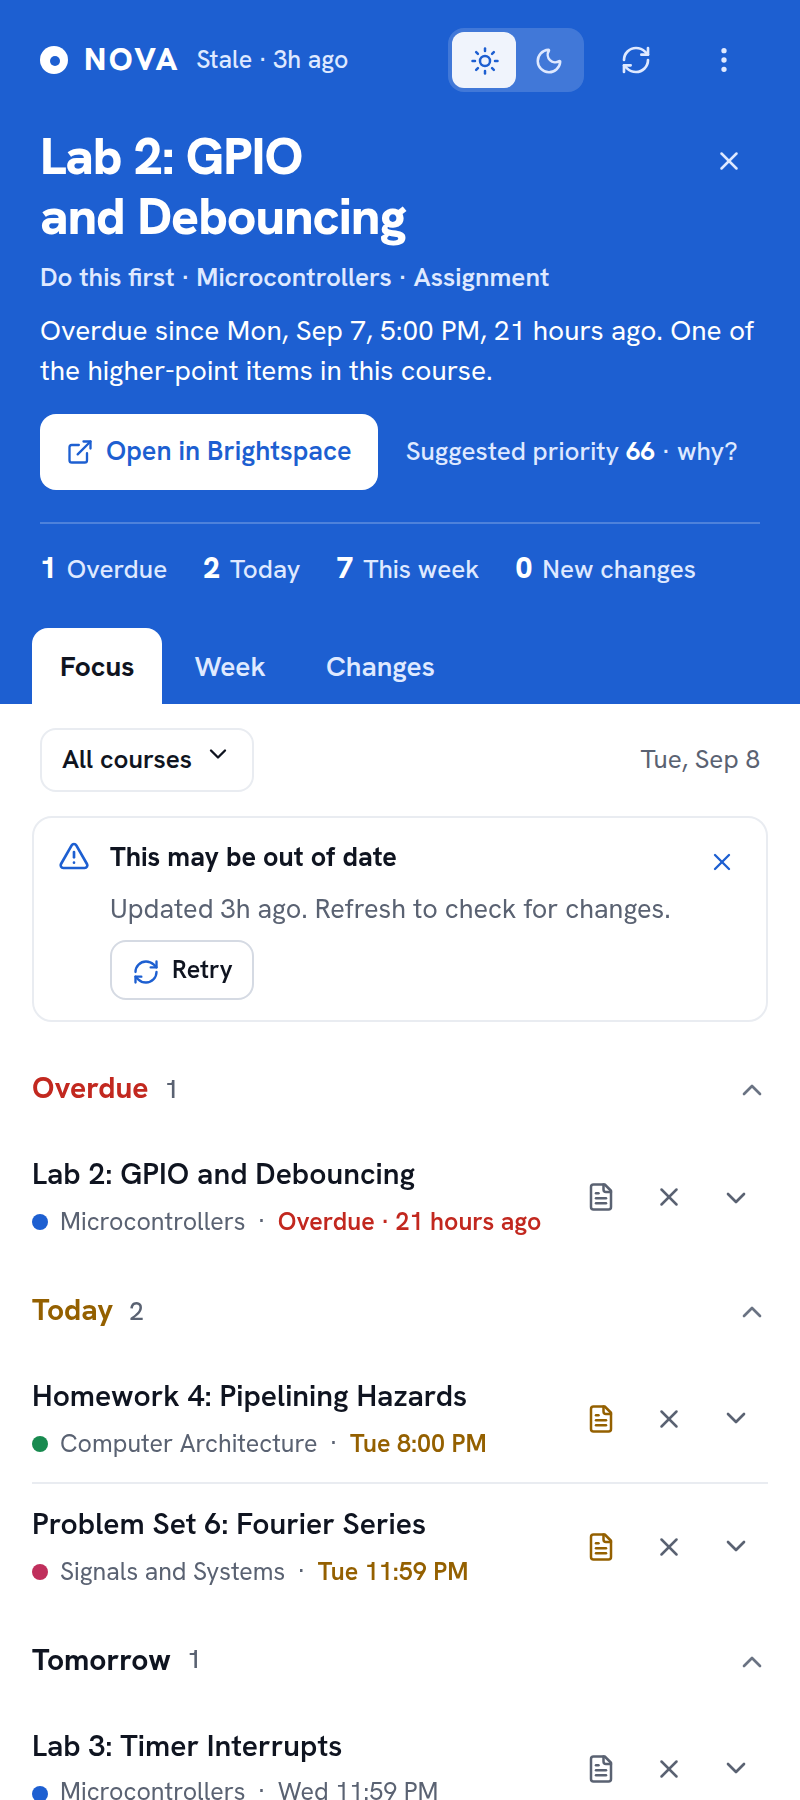
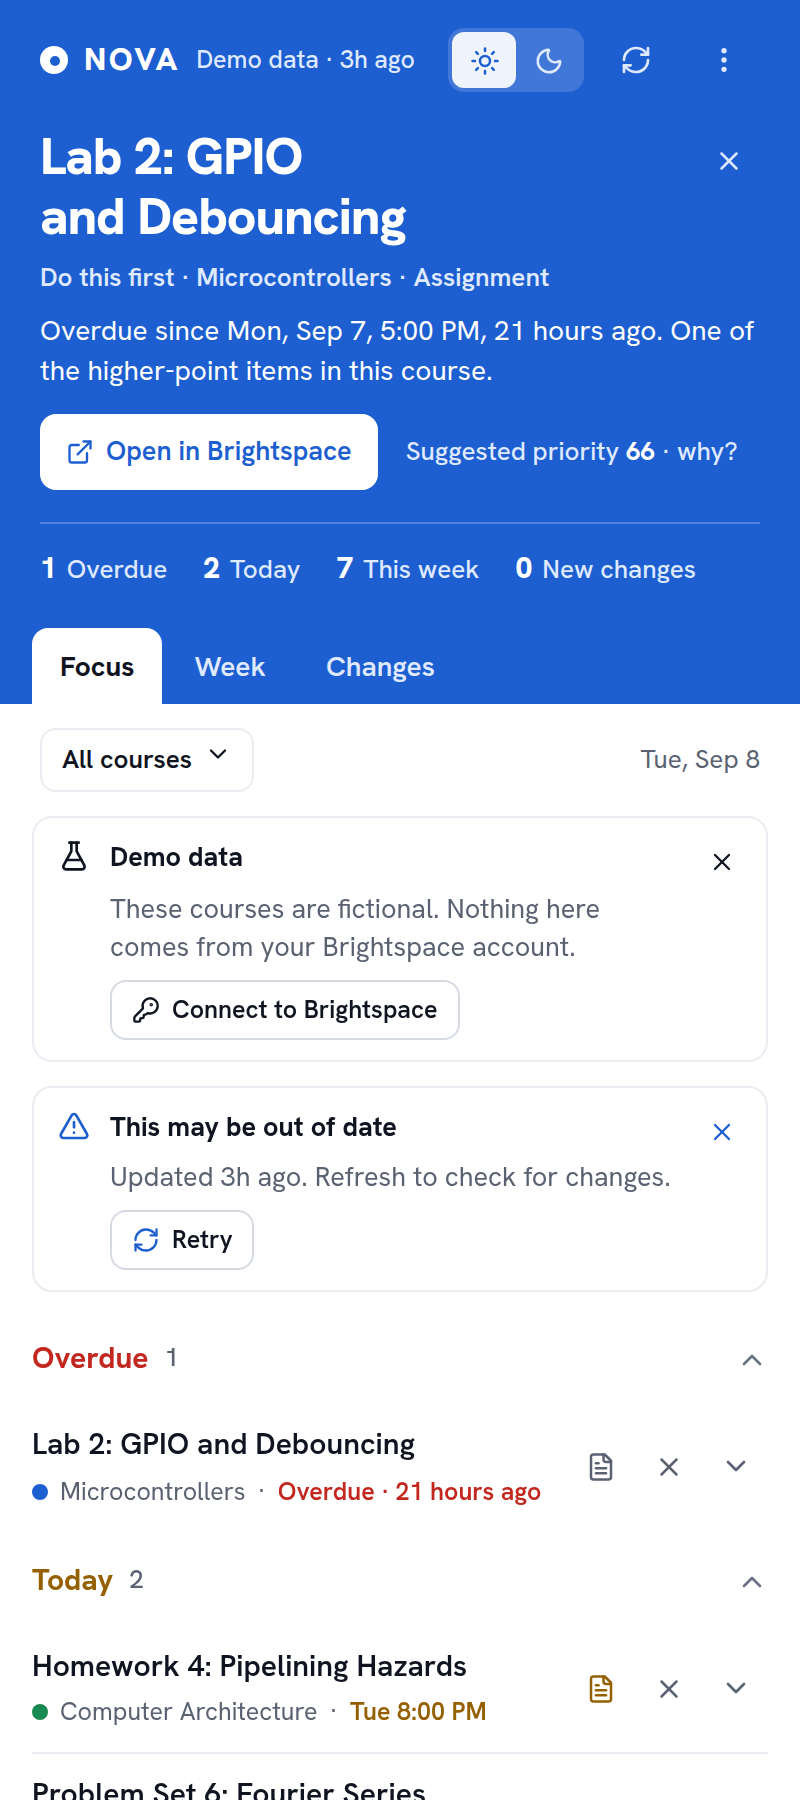
chore(extension): preview demo mode also relabels the persisted sync status; recapture screenshots
Claude-Session: https://claude.ai/code/session_01S3WW9YeRyY937cNbjwGNCi

diff --git a/apps/extension/dev/preview.tsx b/apps/extension/dev/preview.tsx
@@ -18,7 +18,7 @@ import { createStubHost } from "../src/platform/host";
 import { App } from "../src/sidepanel/App";
 import type { UiPreferences } from "../src/sidepanel/MissionControl";
 import { createNovaDb } from "../src/storage/novaDb";
-import { setPreference } from "../src/storage/repositories";
+import { setPreference, putSyncStatus } from "../src/storage/repositories";
 import { DATA_MODE_PREFERENCE, DEMO_SCENARIO_PREFERENCE, SyncCoordinator, type TransportFactory } from "../src/sync/syncCoordinator";
 import "../src/sidepanel/styles.css";
 
@@ -110,7 +110,11 @@ const main = async () => {
 
   const activeTab = tab ?? (scenario === "changes" ? "changes" : scenario === "week" ? "week" : "focus");
   const theme = params.get("theme") === "dark" ? "dark" : "light";
-  if (params.get("mode") === "demo") await setPreference(db, DATA_MODE_PREFERENCE, "fixture");
+  if (params.get("mode") === "demo") {
+    // Label everything as demo data: the preference for future syncs and the persisted status the freshness line reads.
+    await setPreference(db, DATA_MODE_PREFERENCE, "fixture");
+    await putSyncStatus(db, { mode: "fixture" });
+  }
   await setPreference(db, "ui.preferences", { activeTab, courseFilter: null, collapsedSections: ["completed", "later"], theme } satisfies UiPreferences);
 
   createRoot(document.getElementById("root") as HTMLElement).render(
